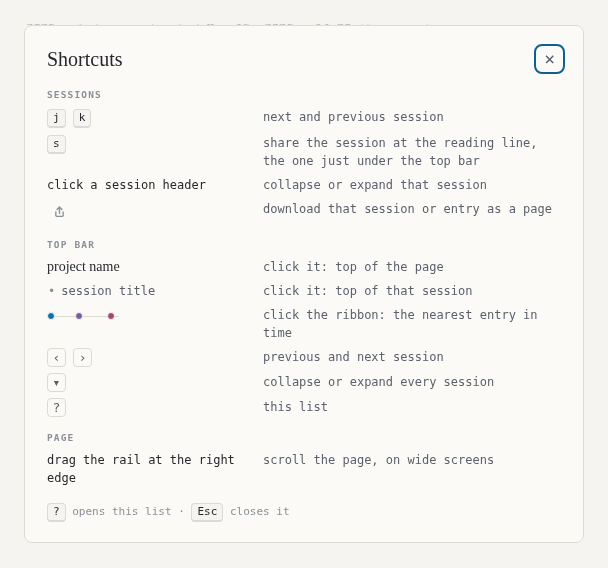
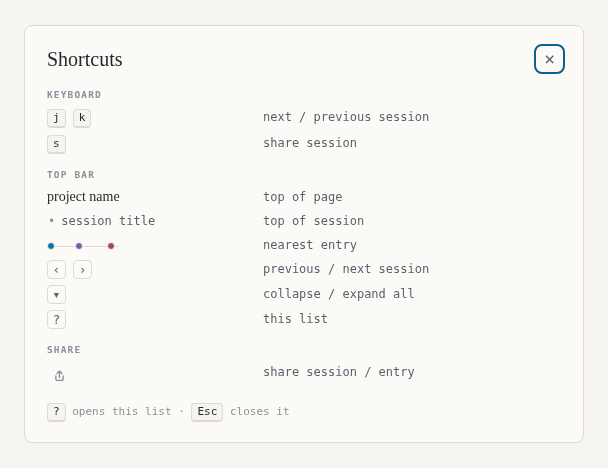
Regroup the dialog into keyboard, top bar, share, and chart
The groups are now the keys (j, k, s), the top bar's controls shown as
they look there, the share glyph, and, where the explorer renders, the
chart. Descriptions are two or three words each, such as "top of page"
and "previous / next session". The rows for clicking a session header
and dragging the rail are gone. The README gains an image of the
index's dialog, which lists the chart keys, captured with JavaScript on.

Assisted-by: Claude Code

diff --git a/scripts/capture-readme-screenshots.js b/scripts/capture-readme-screenshots.js
@@ -139,6 +139,24 @@ const CAPTURE_PADDING = 24;
       await live.close();
     }
 
+    // The index's dialog, which lists the chart keys.
+    const liveIndex = await browser.newPage({
+      viewport: { width: 1440, height: 900 },
+      javaScriptEnabled: true,
+    });
+    try {
+      await liveIndex.goto(siteUrl('index.html'));
+      await liveIndex.mouse.move(0, 0);
+      await liveIndex.keyboard.press('?');
+      const help = liveIndex.locator('#help');
+      if (!(await help.evaluate(d => d.open))) {
+        throw new Error('The ? key did not open the shortcuts dialog on the index');
+      }
+      await pad(await help.screenshot(), 'shortcuts-index.png', liveIndex);
+    } finally {
+      await liveIndex.close();
+    }
+
     const pricing = await requireFirstElement('details.pricing', 'the cost breakdown');
     await pricing.evaluate(node => { node.open = true; });
     await capture(

diff --git a/tests/visual/help.spec.js b/tests/visual/help.spec.js
@@ -59,9 +59,9 @@ test('the ? key and the ? button open and close the dialog on a project page', a
   await page.click('#shelp');
   await page.mouse.click(5, 5);
   expect(await isOpen(page)).toBe(false);
-  // The fixture project has two sessions, a ribbon, a rail, and one day of
-  // activity: sessions, the top bar, and the page are listed, the chart is not.
-  expect(await groups(page)).toEqual(['Sessions', 'Top bar', 'Page']);
+  // The fixture project has two sessions, a ribbon, and one day of activity:
+  // the keys, the top bar, and the share glyph are listed, the chart is not.
+  expect(await groups(page)).toEqual(['Keyboard', 'Top bar', 'Share']);
   expect(await page.locator('#help .kribbon').count()).toBe(1);
   expect(await page.locator('#help .share').count()).toBe(1);
   expect(await page.locator('#help').innerHTML()).toContain('<kbd>j</kbd> <kbd>k</kbd>');

diff --git a/generate_site.py b/generate_site.py
@@ -82,54 +82,48 @@ def help_button():
             ' aria-label="shortcuts">?</button>')
 
 
-def help_html(*, project, stepper=False, explorer=False, ribbon=False, rail=False):
+def help_html(*, project, stepper=False, explorer=False, ribbon=False):
     """The shortcuts dialog for one page, listing only the groups the page has.
 
     ``project`` is a project page (the index has no sessions); ``stepper``
     means more than one session, so j and k and the fold-all caret exist;
-    ``explorer`` means the usage explorer rendered; ``ribbon`` and ``rail``
-    mean the time ribbon and the right-hand minimap rendered.
+    ``explorer`` means the usage explorer rendered; ``ribbon`` means the time
+    ribbon rendered.
     """
     groups = []
     btn = '<span class="kbtn" aria-hidden="true">{}</span>'
     if project:
         rows = []
         if stepper:
-            rows.append(("<kbd>j</kbd> <kbd>k</kbd>", "next and previous session"))
-        rows.append(("<kbd>s</kbd>",
-                     "share the session at the reading line, the one just under the top bar"))
-        rows.append(("click a session header", "collapse or expand that session"))
-        rows.append(('<span class="share kicon" role="img" aria-label="the share glyph"></span>',
-                     "download that session or entry as a page"))
-        groups.append(("Sessions", rows))
+            rows.append(("<kbd>j</kbd> <kbd>k</kbd>", "next / previous session"))
+        rows.append(("<kbd>s</kbd>", "share session"))
+        groups.append(("Keyboard", rows))
         # the top bar's controls, shown as they look there
-        rows = [('<span class="kname">project name</span>', "click it: top of the page"),
-                ('<span class="ktitle">session title</span>', "click it: top of that session")]
+        rows = [('<span class="kname">project name</span>', "top of page"),
+                ('<span class="ktitle">session title</span>', "top of session")]
         if ribbon:
             rows.append(('<span class="kribbon" role="img" aria-label="the ribbon">'
-                         '<i></i><i></i><i></i></span>',
-                         "click the ribbon: the nearest entry in time"))
+                         '<i></i><i></i><i></i></span>', "nearest entry"))
         if stepper:
             rows.append((btn.format("&lsaquo;") + " " + btn.format("&rsaquo;"),
-                         "previous and next session"))
-            rows.append((btn.format("&#9662;"), "collapse or expand every session"))
+                         "previous / next session"))
+            rows.append((btn.format("&#9662;"), "collapse / expand all"))
         rows.append((btn.format("?"), "this list"))
         groups.append(("Top bar", rows))
+        groups.append(("Share", [
+            ('<span class="share kicon" role="img" aria-label="the share glyph"></span>',
+             "share session / entry")]))
     if explorer:
         # the keys act while the chart has focus; a click on a bar pins it and
         # focuses the chart, so it is listed first and the note says so
         groups.append(("Chart", [
-            ("click a bar", "pin the readout to it (this also focuses the chart)"),
-            ("<kbd>&larr;</kbd> <kbd>&rarr;</kbd>",
-             "step the pinned bar; with nothing pinned, start from the last active bar"),
-            ("<kbd>Home</kbd> <kbd>End</kbd>", "first and last bar"),
+            ("click a bar", "pin"),
+            ("<kbd>&larr;</kbd> <kbd>&rarr;</kbd>", "previous / next bar"),
+            ("<kbd>Home</kbd> <kbd>End</kbd>", "first / last bar"),
             ("<kbd>Esc</kbd>", "unpin"),
-            ("drag across the chart", "zoom the window to those bars"),
-            ("drag the strip below the chart", "move or resize the window"),
+            ("drag across the chart", "zoom"),
+            ("drag the strip below", "move / resize the window"),
         ]))
-    if project and rail:
-        groups.append(("Page", [
-            ("drag the rail at the right edge", "scroll the page, on wide screens")]))
     notes = {"Chart": "The keys act while the chart has focus: click a bar, or tab to the chart."}
     sections = "".join(
         f'<section><h3>{title}</h3>'
@@ -2790,7 +2784,7 @@ def render(tl, home=None, refreshed_at=None):
         title=esc(tl["project_name"]),
         css=CSS, js=JS + REFRESH_JS + USAGE_JS + HELP_JS,
         help=help_html(project=True, stepper=total > 1, explorer=bool(usage_html),
-                       ribbon=bool(ribbon), rail=bool(minimap)),
+                       ribbon=bool(ribbon)),
         body_class=body_class,
         project=esc(tl["project_name"]),
         path=esc(tl["project_path"]),

diff --git a/tests/test_transcript_fixtures.py b/tests/test_transcript_fixtures.py
@@ -108,8 +108,9 @@ class TranscriptFixtureTests(unittest.TestCase):
         # s and the header click are.
         self.assertIn('<button type="button" class="shelp" id="shelp"', one_session)
         self.assertIn('<dialog class="help" id="help"', one_session)
-        self.assertIn("<h3>Sessions</h3>", one_session)
+        self.assertIn("<h3>Keyboard</h3>", one_session)
         self.assertIn("<h3>Top bar</h3>", one_session)
+        self.assertIn("<h3>Share</h3>", one_session)
         self.assertIn("<dt><kbd>s</kbd></dt>", one_session)
         self.assertNotIn("<kbd>j</kbd>", one_session)
         self.assertNotIn("&lsaquo;</span>", one_session.split('<dialog', 1)[1])
@@ -126,7 +127,7 @@ class TranscriptFixtureTests(unittest.TestCase):
         index = render_index([("example", build_timeline(claude_dir))])
         self.assertIn('<button type="button" class="shelp" id="shelp"', index)
         self.assertIn('<dialog class="help" id="help"', index)
-        self.assertNotIn("<h3>Sessions</h3>", index)
+        self.assertNotIn("<h3>Keyboard</h3>", index)
         self.assertNotIn("<h3>Chart</h3>", index)
 
     def test_screenshot_site_is_built_only_from_synthetic_fixtures(self):

diff --git a/README.md b/README.md
@@ -129,7 +129,10 @@ followed by its value. Active time is recorded per entry, not per model, so the
 model line attributes each entry's active time to its most-used model. The
 readout follows the pointer, a click pins it to a bar, and the arrow keys step
 it while the chart has focus. Without a hover or a pin it shows the window's
-last active bar.
+last active bar. The `?` button at the top right of the index summary lists
+these keys and gestures.
+
+![The shortcuts dialog on the index, listing the chart keys](docs/images/shortcuts-index.png)
 
 The tiles below recompute for the selected window. Two tiles are new: the
 longest streak of consecutive active days, with its dates, and the day with
